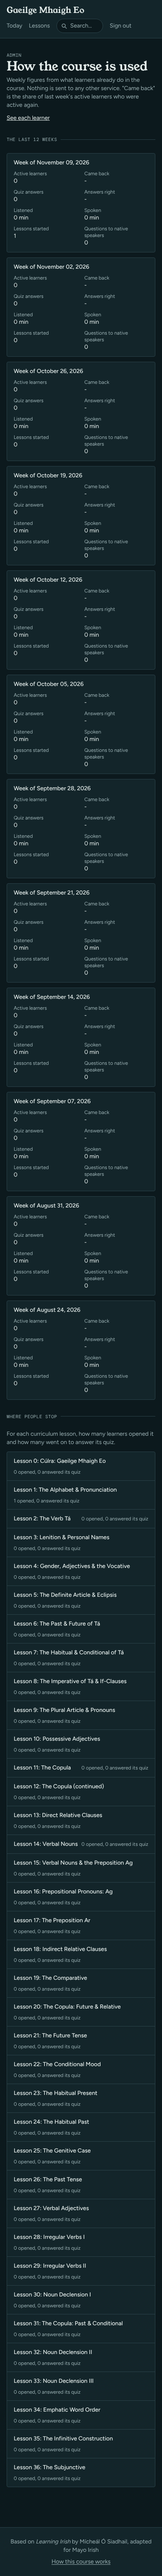
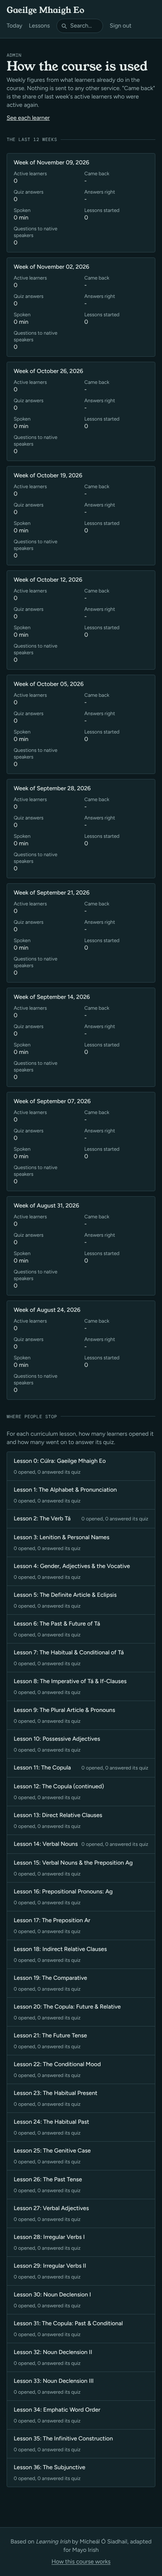
Usage page: review fixes (approved learners only, drop per-week listening, wider active definition)
Claude-Session: https://claude.ai/code/session_017wWQSAzAQW4BPymiVSF5GK

diff --git a/app/models/usage_report.rb b/app/models/usage_report.rb
@@ -1,13 +1,16 @@
 # Course-wide figures for the admin Usage page, from what learners already
-# record. Nothing here is sent anywhere. Weeks start on Monday and run oldest
-# first; each figure is one query over the whole period.
+# record, for approved learners (admins' own testing is left out). Nothing here
+# is sent anywhere. Weeks start on Monday and run oldest
+# first. Listening time is not shown: it is stored as a running total per
+# recording, so it can't be split by week.
 class UsageReport
   WEEKS = 12
 
-  Week = Data.define(:starts_on, :active, :returning, :retention, :answers, :accuracy, :minutes_listened, :minutes_spoken, :lessons_started, :questions)
+  Week = Data.define(:starts_on, :active, :returning, :retention, :answers, :accuracy, :minutes_spoken, :lessons_started, :questions)
   Stage = Data.define(:lesson, :opened, :quizzed)
 
   def initialize(now: Time.current)
+    @learners = User.where(approved: true, admin: false).select(:id)
     @first = (now.beginning_of_week - (WEEKS - 1).weeks)
   end
 
@@ -17,8 +20,8 @@ class UsageReport
 
   # For each curriculum lesson: how many learners opened it, and how many went on to answer its quiz.
   def stages
-    opened = LessonVisit.group(:lesson_id).distinct.count(:user_id)
-    quizzed = QuizReview.joins(:quiz_question).group("quiz_questions.lesson_id").distinct.count(:user_id)
+    opened = LessonVisit.where(user_id: @learners).group(:lesson_id).distinct.count(:user_id)
+    quizzed = QuizReview.where(user_id: @learners).joins(:quiz_question).group("quiz_questions.lesson_id").distinct.count(:user_id)
     Lesson.curriculum.published.ordered.map do |lesson|
       Stage.new(lesson: lesson, opened: opened.fetch(lesson.id, 0), quizzed: quizzed.fetch(lesson.id, 0))
     end
@@ -37,7 +40,7 @@ class UsageReport
     Week.new(starts_on: start.to_date, active: active.size, returning: returning,
              retention: (before.present? ? (returning * 100.0 / before.size).round : nil),
              answers: total, accuracy: (total.positive? ? (right * 100.0 / total).round : nil),
-             minutes_listened: minutes(listening_seconds[key]), minutes_spoken: minutes(spoken_seconds[key]),
+             minutes_spoken: minutes(spoken_seconds[key]),
              lessons_started: lessons_started.fetch(key, 0), questions: questions.fetch(key, 0))
   end
 
@@ -45,21 +48,16 @@ class UsageReport
 
   def minutes(seconds) = seconds.to_i.fdiv(60).round
 
-  def answer_logs = @answer_logs ||= ReviewLog.where(answered_at: @first..).pluck(:user_id, :answered_at, :correct)
+  def answer_logs = @answer_logs ||= ReviewLog.where(user_id: @learners, answered_at: @first..).pluck(:user_id, :answered_at, :correct)
 
   def answer_counts
     @answer_counts ||= answer_logs.group_by { |_, at, _| bucket(at) }
                                   .transform_values { |logs| [ logs.count { |l| l[2] }, logs.size ] }
   end
 
-  def listening_seconds
-    @listening_seconds ||= ListeningTime.where(updated_at: @first..).pluck(:updated_at, :seconds)
-                                        .group_by { |at, _| bucket(at) }.transform_values { |r| r.sum { |_, s| s } }
-  end
-
   def spoken_rows
     @spoken_rows ||= ChatMessage.where(role: "user").where.not(spoken_seconds: nil).joins(:chat_session)
-                                .where(created_at: @first..).pluck("chat_sessions.user_id", :created_at, :spoken_seconds)
+                                .where(chat_sessions: { user_id: @learners }, created_at: @first..).pluck("chat_sessions.user_id", :created_at, :spoken_seconds)
   end
 
   def spoken_seconds
@@ -67,12 +65,12 @@ class UsageReport
   end
 
   def lessons_started
-    @lessons_started ||= LessonVisit.where(created_at: @first..).pluck(:created_at)
+    @lessons_started ||= LessonVisit.where(user_id: @learners, created_at: @first..).pluck(:created_at)
                                     .group_by { |at| bucket(at) }.transform_values(&:size)
   end
 
   def questions
-    @questions ||= NativeQuestion.where(created_at: @first..).pluck(:created_at)
+    @questions ||= NativeQuestion.where(user_id: @learners, created_at: @first..).pluck(:created_at)
                                  .group_by { |at| bucket(at) }.transform_values(&:size)
   end
 
@@ -81,9 +79,11 @@ class UsageReport
     @learners_by_week ||= begin
       seen = Hash.new { |h, k| h[k] = Set.new }
       answer_logs.each { |user, at, _| seen[bucket(at)] << user }
-      Listen.where(created_at: @first..).pluck(:user_id, :created_at).each { |user, at| seen[bucket(at)] << user }
-      ListeningTime.where(updated_at: @first..).pluck(:user_id, :updated_at).each { |user, at| seen[bucket(at)] << user }
+      Listen.where(user_id: @learners, created_at: @first..).pluck(:user_id, :created_at).each { |user, at| seen[bucket(at)] << user }
+      ListeningTime.where(user_id: @learners, updated_at: @first..).pluck(:user_id, :updated_at).each { |user, at| seen[bucket(at)] << user }
       spoken_rows.each { |user, at, _| seen[bucket(at)] << user }
+      LessonVisit.where(user_id: @learners, created_at: @first..).pluck(:user_id, :created_at).each { |user, at| seen[bucket(at)] << user }
+      NativeQuestion.where(user_id: @learners, created_at: @first..).pluck(:user_id, :created_at).each { |user, at| seen[bucket(at)] << user }
       seen
     end
   end

diff --git a/test/models/usage_report_test.rb b/test/models/usage_report_test.rb
@@ -8,10 +8,10 @@ class UsageReportTest < ActiveSupport::TestCase
 
   test "sums each week and works out who came back" do
     travel_to Time.zone.parse("2026-10-28 12:00") do
-      answer(users(:one), at: 1.week.ago, correct: true)
-      answer(users(:one), at: 1.hour.ago, correct: true)
-      answer(users(:two), at: 1.hour.ago, correct: false)
-      answer(users(:two), at: 2.hours.ago, correct: true)
+      answer(users(:two), at: 1.week.ago, correct: true)
+      answer(users(:two), at: 1.hour.ago, correct: true)
+      answer(users(:newcomer), at: 1.hour.ago, correct: false)
+      answer(users(:newcomer), at: 2.hours.ago, correct: true)
 
       weeks = UsageReport.new.weeks
       this_week = weeks.last
@@ -24,22 +24,30 @@ class UsageReportTest < ActiveSupport::TestCase
     end
   end
 
-  test "counts minutes listened and lessons started" do
+  test "leaves out admins" do
     travel_to Time.zone.parse("2026-10-28 12:00") do
-      LessonVisit.record(user: users(:one), lesson: lessons(:one))
+      answer(users(:admin), at: 1.hour.ago, correct: true)
+
+      assert_equal 0, UsageReport.new.weeks.last.answers
+    end
+  end
+
+  test "counts lessons started and lessons-only activity as active" do
+    travel_to Time.zone.parse("2026-10-28 12:00") do
+      LessonVisit.record(user: users(:two), lesson: lessons(:one))
 
       week = UsageReport.new.weeks.last
 
       assert_equal 1, week.lessons_started
-      assert_equal 0, week.minutes_listened
+      assert_equal 1, week.active
     end
   end
 
   test "shows how many opened each curriculum lesson and went on to its quiz" do
     lesson = lessons(:one)
     lesson.update!(lesson_type: "curriculum", published: true)
-    LessonVisit.record(user: users(:one), lesson: lesson)
     LessonVisit.record(user: users(:two), lesson: lesson)
+    LessonVisit.record(user: users(:newcomer), lesson: lesson)
     QuizReview.create!(user: users(:two), quiz_question: @question, box: 2, due_at: 1.day.from_now)
 
     stage = UsageReport.new.stages.find { |s| s.lesson == lesson }

diff --git a/test/controllers/usage_controller_test.rb b/test/controllers/usage_controller_test.rb
@@ -17,7 +17,7 @@ class UsageControllerTest < ActionDispatch::IntegrationTest
 
     get usage_path
 
-    assert_response :redirect
+    assert_redirected_to root_path
   end
 
   test "signed-out visitors are sent to sign in" do
